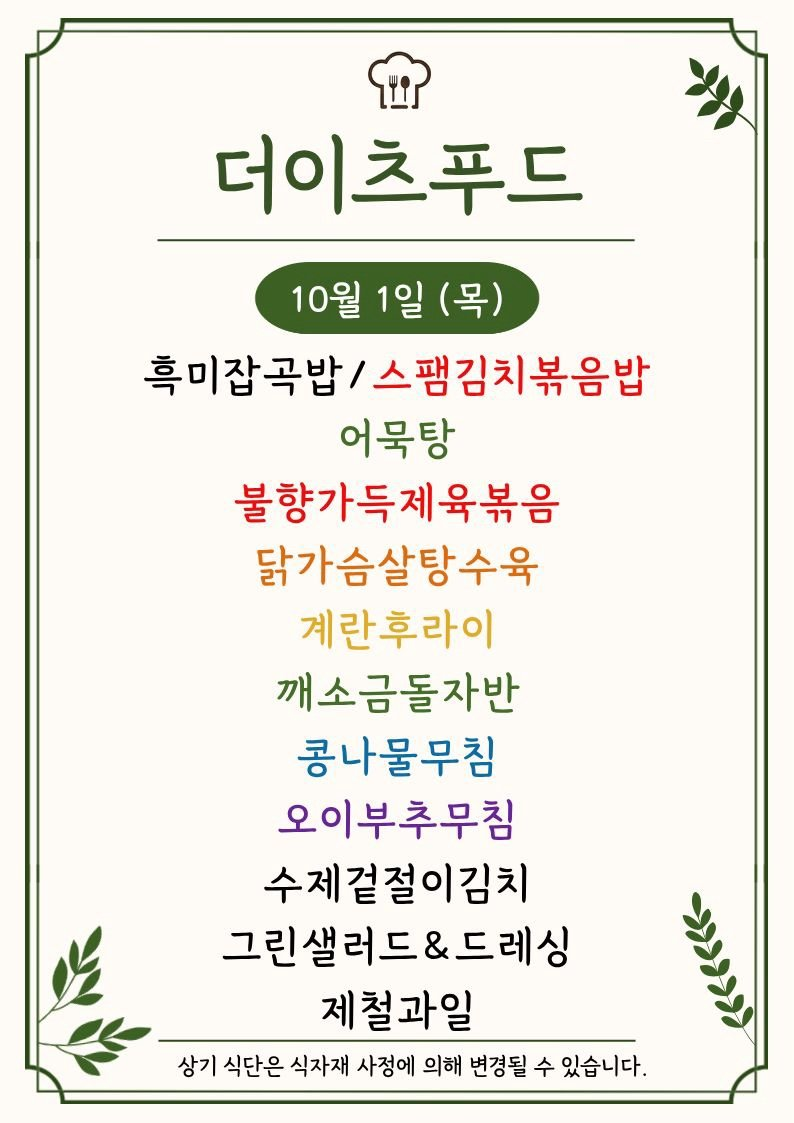
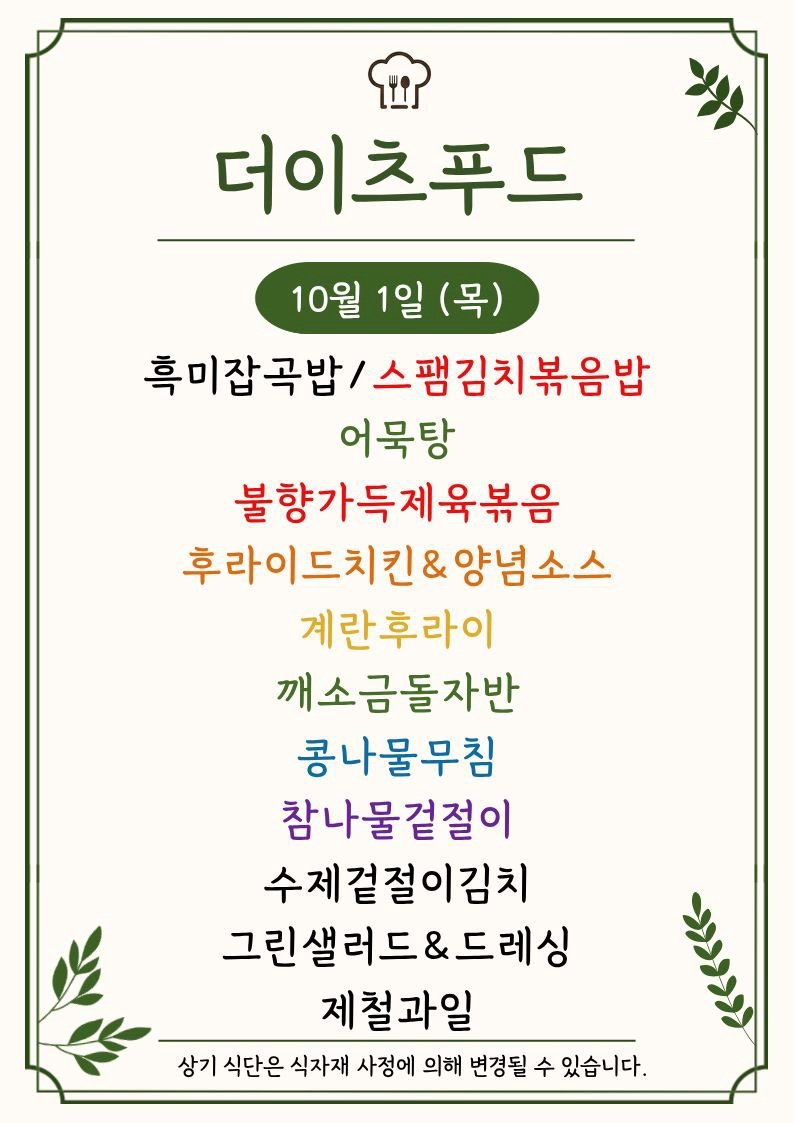
Update menu board assets

Changed region(s): [[0.2418, 0.4675, 0.7859, 0.5298], [0.3325, 0.7168, 0.665, 0.748]]

diff --git a/menu-today/index.html b/menu-today/index.html
@@ -209,7 +209,7 @@
 
     <section class="meta-bar">
       <div class="meta-card"><div class="meta-label">기준 날짜</div><div class="meta-value">2026년 10월 1일 목요일</div></div>
-      <div class="meta-card"><div class="meta-label">최종 가져온 시간</div><div class="meta-value">2026-10-01 10:47:17</div></div>
+      <div class="meta-card"><div class="meta-label">최종 가져온 시간</div><div class="meta-value">2026-10-01 11:03:20</div></div>
       <div class="meta-card"><div class="meta-label">확인 완료</div><div class="meta-value">9개 식당</div></div>
       <div class="meta-card"><div class="meta-label">준비중</div><div class="meta-value">3개 채널</div></div>
     </section>
@@ -295,7 +295,7 @@
             <div class="sub">에이스테크노타워10차</div>
           </div>
         </div>
-        <div class="menu-inline-image"><img src="./images/thefoodsketch.png" alt="더푸드스케치 식단 이미지"></div><ul><li>om 혼합잡곡밥</li><li>한방돼지갈비찜</li><li>계란말이 / 케잡</li><li>s 도토리묵무칭</li><li>가지나물</li><li>가든샐러드 &amp; 드레싱</li><li>배주끝절이 / 음료</li><li>혼합잡곡밥</li><li>조껏살미역국</li></ul>
+        <div class="menu-inline-image"><img src="./images/thefoodsketch.png" alt="더푸드스케치 식단 이미지"></div><ul><li>om 혼합잡곡밥</li><li>한방돼지갈비찜</li><li>계란말이 / 케잡</li><li>s 도토리묵무칭</li><li>가지나물</li><li>가든샐러드 / 드레싱</li><li>배주끝절이 / 음료</li><li>혼합잡곡밥</li><li>조껏살미역국</li></ul>
       </article>
 
       <article class="restaurant-card">

diff --git a/guro-menu/index.html b/guro-menu/index.html
@@ -32,7 +32,7 @@
   </header>
   <section class="meta">
     <div><small>기준 날짜</small><strong>2026년 10월 1일 목요일</strong></div>
-    <div><small>최종 갱신</small><strong>2026-10-01 10:47:31</strong></div>
+    <div><small>최종 갱신</small><strong>2026-10-01 11:03:32</strong></div>
     <div><small>등록 식당</small><strong>5개</strong></div>
   </section>
   <div class="notice">공개 카카오 채널의 메뉴 이미지를 자동 수집하고 OCR로 정리합니다. 텍스트에 오타가 있을 수 있으니 식단 이미지를 함께 확인해 주세요.</div>
@@ -76,7 +76,7 @@
         </div>
         <img class="menu-image" src="./images/the-eats-food.png" alt="더이츠푸드 식단 이미지" loading="lazy">
         
-        <ul><li>더이 2iC</li><li>흑미잡곡밥/스팸김치볶음밥</li><li>어묵탕</li><li>불향가득제육볶음</li><li>닭가슴살탕수육</li><li>겨 2 } S72 bo</li><li>깨소금돌자반</li><li>콩나물무침</li><li>오이부추무침</li><li>수제겉절이김치 5</li><li>그린샐러드&amp;드레싱 %</li><li>제철과일</li></ul>
+        <ul><li>~ 으&gt; &gt; 본</li><li>더이 긋고 ㄷ</li><li>흑미잡곡밥/스팸김치볶음밥</li><li>어묵탕</li><li>불향가득제육볶음</li><li>후라이드치킨&amp;양념소스</li><li>깨소금돌자반</li><li>콩나물무침</li><li>참나물겉절이</li><li>수제겉절이김치 0</li><li>그린샐러드&amp;드레싱 %</li><li>제철과일 Y</li></ul>
       </article>
 
       <article class="restaurant-card">
